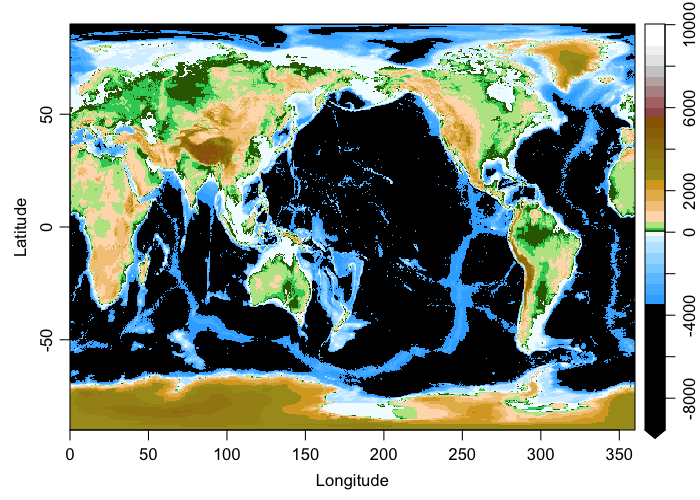
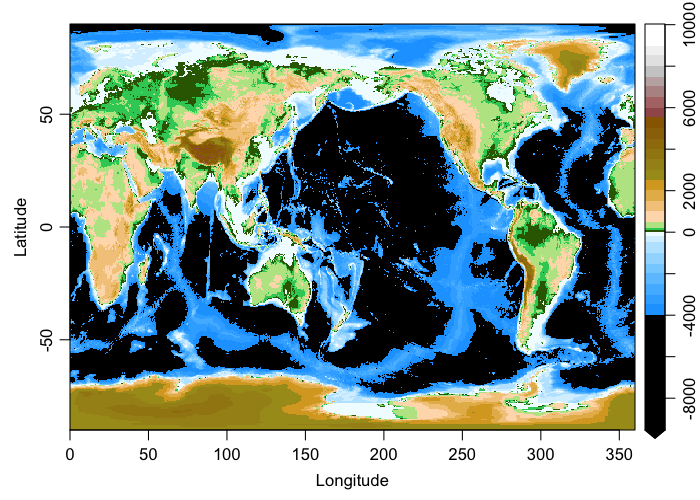
colormap

diff --git a/_site/r/2014/04/30/colormap.html b/_site/r/2014/04/30/colormap.html
@@ -177,7 +177,7 @@ imagep<span class="p">(</span>topoWorld<span class="p">,</span> breaks <span cla
 6
 7</code></pre></div></td><td class="code"><div class="highlight"><pre><span class="c1">## Example 3. topographic image with modified colors</span>
 cm <span class="o">&lt;-</span> Colormap<span class="p">(</span>name <span class="o">=</span> <span class="s">&quot;gmt_globe&quot;</span><span class="p">)</span>
-deep <span class="o">&lt;-</span> cm<span class="o">$</span>x0 <span class="o">&lt;=</span> <span class="m">-4000</span>
+deep <span class="o">&lt;-</span> cm<span class="o">$</span>x0 <span class="o">&lt;</span> <span class="m">-4000</span>
 cm<span class="o">$</span>col0<span class="p">[</span>deep<span class="p">]</span> <span class="o">&lt;-</span> <span class="s">&quot;black&quot;</span>
 cm<span class="o">$</span>col1<span class="p">[</span>deep<span class="p">]</span> <span class="o">&lt;-</span> <span class="s">&quot;black&quot;</span>
 cm <span class="o">&lt;-</span> Colormap<span class="p">(</span>x0 <span class="o">=</span> cm<span class="o">$</span>x0<span class="p">,</span> x1 <span class="o">=</span> cm<span class="o">$</span>x1<span class="p">,</span> col0 <span class="o">=</span> cm<span class="o">$</span>col0<span class="p">,</span> col1 <span class="o">=</span> cm<span class="o">$</span>col1<span class="p">)</span>

diff --git a/_posts/2014-04-30-colormap.md b/_posts/2014-04-30-colormap.md
@@ -80,7 +80,7 @@ imagep(topoWorld, breaks = cm$breaks, col = cm$col)
 
 ## Example 3. topographic image with modified colors
 cm <- Colormap(name = "gmt_globe")
-deep <- cm$x0 <= -4000
+deep <- cm$x0 < -4000
 cm$col0[deep] <- "black"
 cm$col1[deep] <- "black"
 cm <- Colormap(x0 = cm$x0, x1 = cm$x1, col0 = cm$col0, col1 = cm$col1)
